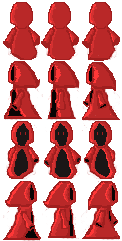
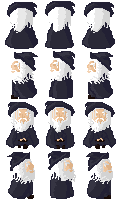
mageSkin+BarbarianRage

diff --git a/main.js b/main.js
@@ -1,14 +1,15 @@
 var isGameStarted = false;
+var choosenClass = "";
 var ctx = document.getElementById("ctx").getContext("2d");
 var canvas = document.getElementById("ctx");
 var healthBar = document.getElementById("playerHp").getContext("2d")
 var heightRatio = 0.05;
 healthBar.height = healthBar.width * heightRatio;
 var mapList = {};
-var HEIGHT = 768 //530;
-var WIDTH = 1705//960;
+var HEIGHT = 768;
+var WIDTH = 1705;
 var CANVAS_WIDTH = 1705;
-var CANVAS_HEIGHT = 768
+var CANVAS_HEIGHT = 768;
 var TILE_SIZE = 96;
 var timeWhenGameStarted = Date.now();   //return time in ms
 var frameCount = 0;
@@ -50,8 +51,7 @@ Img.goblin_warrior = new Image();
 Img.goblin_warrior.src = "img/Goblin_Warrior.png";
 Img.goblin_vampire = new Image();
 Img.goblin_vampire.src = "img/Goblin_Vampire.png";
-Img.upgrade = new Image();
-Img.upgrade.src = "img/mushroom.png";
+
 Img.map = new Image(); 
 Img.map.src = "img/dungeon1.png";
 Img.body = new Image(); 
@@ -170,18 +170,14 @@ update = function(){
         if(frameCount % 75 === 0)       //every 3 sec
         randomlyGenerateUpgrade(); 
         }
-
         player.update(); 
         updateUI();//only after player update!
 
         for(var key in effectList){
                 effectList[key].update();     
-        }  
-
-       
+        }       
 }
  
-
 Maps = function(id, imgSrc, grid){
         var self = {
                 id:id,
@@ -318,31 +314,49 @@ chooseBarbarian = function(){
         document.getElementById('btn-choose-barbarian').style.display = "none";
         document.getElementById('barbarianInfoMenu').style.display = "block";
         document.getElementById('startGame').style.display = "block";
-        player = Player("player", "barbarian", (TILE_SIZE*2 - TILE_SIZE/2), (TILE_SIZE*3 - TILE_SIZE/2), 90, 90, Img.barbarian, 1000, 50, 10, 10, 10, 8, 3, 2, "SwordStrike")
+        document.getElementById('backToChooseHero').style.display = "block";
+        choosenClass = "barbarian";  
 }
 
-chooseMage = function(){
+chooseWizard = function(){
         document.getElementById('chooseBarbarian').style.display = "none";
         document.getElementById('chooseHero').style.display = "none";
         document.getElementById('btn-choose-wizard').style.display = "none";
         document.getElementById('wizardInfoMenu').style.display = "block";
         document.getElementById('startGame').style.display = "block";
-        player = Player("player", "wizard", (TILE_SIZE*2 - TILE_SIZE/2), (TILE_SIZE*3 - TILE_SIZE/2), 80, 80, Img.wizard, 600, 300, 6, 6, 6, 8, 8, 7, "fireball")
+        document.getElementById('backToChooseHero').style.display = "block";
+        choosenClass = "wizard";  
+}
 
-        
+backToChooseHero = function(){
+        document.getElementById('chooseBarbarian').style.display = "block";  
+        document.getElementById('chooseWizard').style.display = "block";
+        document.getElementById('btn-choose-barbarian').style.display = "block";
+        document.getElementById('btn-choose-wizard').style.display = "block";
+        document.getElementById('chooseHero').style.display = "block";
+
+        document.getElementById('wizardInfoMenu').style.display = "none";
+        document.getElementById('startGame').style.display = "none";
+        document.getElementById('backToChooseHero').style.display = "none";
+        document.getElementById('barbarianInfoMenu').style.display = "none";
 }
 
 startGame = function(){ 
         document.getElementById('startMenu').style.display = "none";
         document.getElementById('welcomeMessage').style.display = "none";
         document.getElementById('ui').style.display = "block";
+
+        if(choosenClass === "barbarian"){
+                player = Player("player", "barbarian", (TILE_SIZE*2 - TILE_SIZE/2), (TILE_SIZE*3 - TILE_SIZE/2), 90, 90, Img.barbarian, 1000, 50, 10, 10, 10, 8, 3, 2, "SwordStrike")
+        } else if (choosenClass === "wizard"){
+                player = Player("player", "wizard", (TILE_SIZE*2 - TILE_SIZE/2), (TILE_SIZE*3 - TILE_SIZE/2), 80, 90, Img.wizard, 600, 300, 6, 6, 6, 8, 8, 7, "fireball")
+        }
         playerInventory = Inventory();
         isGameStarted = true;
         startNewGame();
         setInterval(update,40); 
 }
-//player = Player(); 
-//playerInventory = Inventory();
+
 startNewGame = function(){
         hideDeathMenu();
         currentMap = mapList["dungeon1"];
@@ -380,12 +394,5 @@ startNewGame = function(){
         textMenu.innerHTML = '';
         pageNumber = 0;
         quest1.isStarted = false;
-       // randomlyGenerateEnemy();
-       // randomlyGenerateEnemy();
-       // randomlyGenerateEnemy();
 }
-
-
-//startNewGame();
-
 

diff --git a/index.html b/index.html
@@ -13,8 +13,8 @@
 	<div id="welcomeMessage" style = "position: absolute; top:5%; left:20%; width:60%; height:10%; text-align: center; font-size: 3vw; color:azure;">Welcome to the FRAKE RPG game!</div>
 	
 	<div id = "startMenu" style = "position: absolute; top:20%; left:20%; width:60%; height:60%; background-color:#323c39; border:2px solid; border-color:azure;">
-		<div id = "chooseBarbarian" style = "position: absolute; top:10%; left:15%; width:15%; height:30%;border:2px solid; border-color:azure; " onclick = "chooseBarbarian()">
-			<button id="btn-choose-barbarian" style ="position:absolute; top:105%; width:100%; height:25%; text-align: center; color:black; background-color: azure; font-size: 1.2vw;" onclick = "chooseBarbarian()">Barbarian</button>
+		<div id = "chooseBarbarian" style = "position: absolute; top:10%; left:15%; width:15%; height:30%;border:2px solid; border-color:azure; ">
+			<button id="btn-choose-barbarian" style ="position:absolute; top:110%; width:100%; height:25%; text-align: center; color:black; background-color: azure; font-size: 1.2vw;" onclick = "chooseBarbarian()">Barbarian</button>
 		</div>
 		<div id = "barbarianInfoMenu" style = "position:absolute; top:5%; left:32.5%; width:60%; height:70%; border: 2px solid; border-color:azure; background-color:#222034; display:none; color:white; font-size: 1.4vw; text-align: center;">Class : Barbarian<br>
 			<p style = "text-align: left; padding-left:5%;" > Health total : 1000 <br>Mana : 50 <br>AC : 10 <br> Constitution : 10 <br> Strength : 10 <br> Dexterity : 8 <br> Intellect : 3 <br> Wisdom : 2 </p>
@@ -23,11 +23,12 @@
 			<p style = "text-align: left; padding-left:5%;" > Health total : 600 <br>Mana : 300 <br>AC : 6 <br> Constitution : 6 <br> Strength : 6 <br> Dexterity : 8 <br> Intellect : 8 <br> Wisdom : 7 </p>
 		</div>
 
-		<div id = "chooseWizard" style = "position: absolute; top:10%; right:15%; width:15%; height:30%;border:2px solid; border-color:azure; " onclick = "chooseMage()">
-			<button id="btn-choose-wizard" style ="position:absolute; top:105%; width:100%; height:25%; text-align: center; color:black; background-color: azure; font-size: 1.2vw;" onclick = "chooseWizard()">Wizard</button>
+		<div id = "chooseWizard" style = "position: absolute; top:10%; right:15%; width:15%; height:30%;border:2px solid; border-color:azure;">
+			<button id="btn-choose-wizard" style ="position:absolute; top:110%; width:100%; height:25%; text-align: center; color:black; background-color: azure; font-size: 1.2vw;" onclick = "chooseWizard()">Wizard</button>
 		</div>
 		<div  id = "chooseHero" style ="position: absolute; top:20%; left: 32.5%; width:35%; height:30%; text-align: center; color:azure; font-size: 2vw;">Choose your hero!</div>
-		<button id ="startGame" style ="position: absolute; top:85%;left:45%;width:15%; height:10%; background-color:azure; color:#323c39; text-align: center; font-size: 1.2vw; display:none; " onclick = "startGame()">Start Game</button>
+		<button id ="startGame" style ="position: absolute; top:85%;left:35%;width:10%; height:8%; background-color:azure; color:#323c39; text-align: center; font-size: 1.2vw; display:none; " onclick = "startGame()">Start Game</button>
+		<button id ="backToChooseHero" style ="position: absolute; top:85%;left:48%;width:10%; height:8%; background-color:azure; color:#323c39; text-align: center; font-size: 1.2vw; display:none; " onclick = "backToChooseHero()">Back</button>
 	</div>
 	
 	<div id = "ui" style = "position:absolute; width:100%; height:100%; display:none;">

diff --git a/enemies.js b/enemies.js
@@ -2,13 +2,19 @@ Enemy = function(name, attackClass, id,x,y,width,height, img, hp, mana, AC, cons
     var self = Actor('enemy',id,x,y,width,height,img, hp, mana, AC, constitution, strength, dexterity, intellect, wisdom, bulletType);
         
     self.toRemove = false;
-    
+    self.isScared = false;
+    self.scaredCounter = 0;
     self.name = name; 
     self.attackClass = attackClass;
     self.updateAim = function(){
         var diffX = player.x - self.x; 
         var diffY = player.y - self.y; 
         self.aimAngle = Math.atan2(diffY, diffX)/ Math.PI *180;
+        if(self.isScared){
+                self.aimAngle = - Math.atan2(diffX, diffY)/ Math.PI *180;  
+                self.attackCounter = 0; 
+              
+        }
     }
 
     var super_draw = self.draw; 
@@ -52,6 +58,19 @@ Enemy = function(name, attackClass, id,x,y,width,height, img, hp, mana, AC, cons
                 self.y -= self.speed;
             }   
             
+            if(self.isScared){
+                if(diffX > self.speed/2+0.1 && !currentMap.isPositionWall(self.bumperLeft)){
+                        self.x -= self.speed*2;
+                }else if(diffX < -(self.speed/2+0.1) && !currentMap.isPositionWall(self.bumperRight)){
+                        self.x += self.speed*2;
+                }
+                if(diffY > self.speed/2+0.1 && !currentMap.isPositionWall(self.bumperUp)){
+                    self.y -= self.speed*2;
+                }else if(diffY < -(self.speed/2+0.1) && !currentMap.isPositionWall(self.bumperDown)){
+                    self.y += self.speed*2;
+                }        
+            }
+            
             
             var isColliding = self.testCollision(player);
                 if(isColliding && self.attackClass === "melee"){ 
@@ -65,6 +84,13 @@ Enemy = function(name, attackClass, id,x,y,width,height, img, hp, mana, AC, cons
     var super_update = self.update;
     self.update = function(){
         super_update();
+        if(self.isScared){//barbarianRageSkill
+                self.scaredCounter ++;
+                if(self.scaredCounter >= 30){
+                        self.isScared = false;
+                        self.scaredCounter = 0;
+                }
+        }
         self.spriteAnimCounter += 0.2;
         self.updateAim();
         self.performAttack(); 

diff --git a/entities.js b/entities.js
@@ -27,12 +27,13 @@ Player = function(type, id, x, y, width, height, img, hp, mana, AC, constitution
         self.mana = Math.floor((self.intellect*100)/3)
         self.atkSpd = 1.4 //Math.floor(self.dexterity/5);
         self.atkSpdMod = 0;
-        self.bulletType2 ="fireball"; 
+        self.bulletType2 ="frostball"; 
         
         if(self.id === "wizard"){
                 self.PhysicalAttackList = ["frostball","fireball"]
         } else if(self.id === "barbarian"){
-                self.PhysicalAttackList = ["SwordStrike"]
+                self.PhysicalAttackList = ["SwordStrike", "arrow", "Rage"];
+                self.bulletType2 ="fireball";
         }
         self.showPhysicalAttacks = function(){
                 for(i = 0; i < self.PhysicalAttackList.length; i++){
@@ -343,7 +344,16 @@ Actor = function(type,id,x,y,width,height,img,hp, mana, AC, constitution, streng
         self.performAttack = function(){
                 if(self.type === "player" && player.attackCounter > 25){
                         player.isAttacking = true;
+                        if(player.bulletType === "Rage"){
+                                for(var key in enemyList ){
+                                        if(enemyList[key].testCollision({x:player.x, y:player.y, width:player.width*8, height:player.height*8}))
+                                        enemyList[key].isScared = true;
+                                }
+                        
+                        } else{
+                         
                         generateBullet(self, self.aimAngle, self.bulletType);
+                        }
                         self.attackCounter = 0; 
                 } else {
                         if(self.attackClass === "spell"){

diff --git a/ideas.html b/ideas.html
@@ -13,16 +13,23 @@ Make a Lich (Arcererak) greet a player, or ay that the player is from mage schoo
         Add Death animation, different corpses 
         Add poisoned area effect animation 
         Add frozen area animation 
+        Add Bullet animation 
+        Add fire wall attack, 
+        Add knife special attack flying in different ways for barbarian
+        Add barbarian rage special attack. 
         
     /Hero 
-        new heroes needed.
+    add passive skills and skill choices. 
 
 
 //UI 
  
        
 //ArtWork   
-    Draw a menu design 
+    Draw a menu design;
+    Attack animation for wizard, new wizard pictures; 
+    bullet animation;
+
 
 //Bugs 
 Enemie stuck into each other and walls.

diff --git a/magicAttackSkills.js b/magicAttackSkills.js
@@ -31,3 +31,5 @@ PhysicalAttackSkill.list = {};
 PhysicalAttackSkill("arrow");
 PhysicalAttackSkill("frostball");
 PhysicalAttackSkill("fireball");
+PhysicalAttackSkill("SwordStrike");
+PhysicalAttackSkill("Rage");
